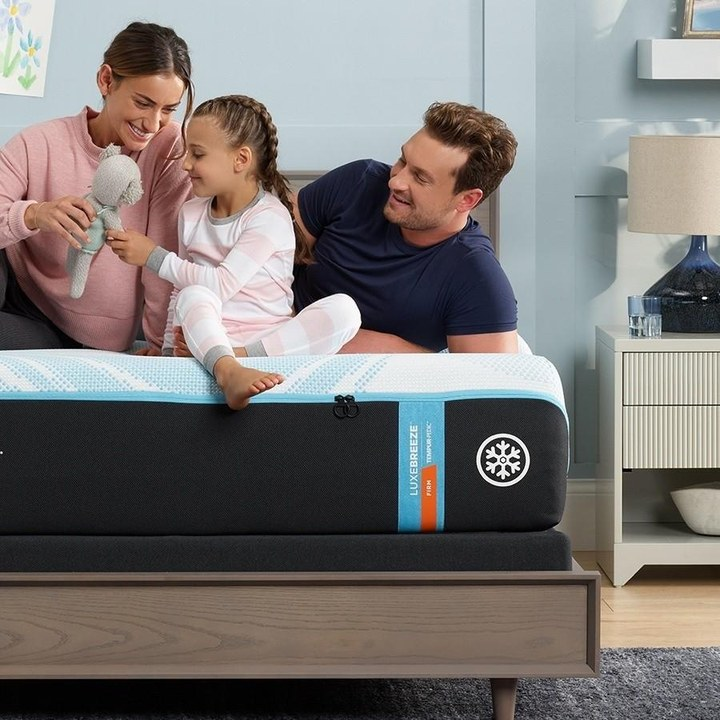
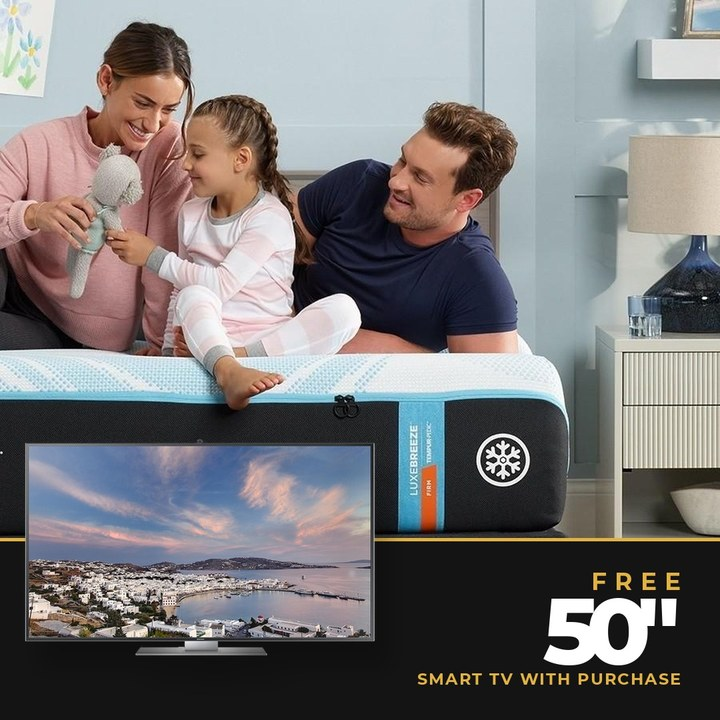
Use a real TV photo on the Breeze Collection card (#12)
* Add a television graphic to the Breeze Collection card.

The family photo and free 50-inch Smart TV offer stay the same. A plain gold-and-black screen sits with that offer so it is visible on a phone.

* Replace the illustrated television with a real product photo.

The Breeze Collection card keeps the family picture and the free 50-inch Smart TV offer. The new picture is Samsung Belgium's isolated flat-panel photograph, saved in the repo.

* Place the television inside the Breeze Collection photo.

The real product photo is inset on the family picture for the card and the enlarged view. The separate picture under the title is gone, and the original family photo is kept beside it.

* Rebuild the Breeze card as one promotional artwork.

The family photo and the real television share a dark-and-gold layout, with the free 50-inch offer set in the artwork. The separate badge and the framed inset are gone.

---------

Changed region(s): [[0.0, 0.6111, 1.0, 1.0]]

diff --git a/index.html b/index.html
@@ -22,6 +22,7 @@
   • Leave "desc" off when it would repeat "name". Do not add an unverified series.
   • Several sizes? Use "prices": [ {"label":"Queen","price":"$749"}, ... ] instead of "price".
   • No price? Leave "price" out and add "badge": "your text" instead.
+  • The Breeze Collection artwork is one piece: the family photo, a dark-and-gold offer panel, and the television. "offerInArt": true keeps that claim out of a second badge. The untouched family photo is img/18-family.jpg. The television is Samsung Belgium's product picture (CC BY 2.0, https://commons.wikimedia.org/wiki/File:Samsung_UE65F9005STXXE_front_black_20130613.jpg), a representative screen only. Do not name that brand or model on the card.
   • Sale dates: type them into "dates" (e.g. "Oct 1 – Oct 31"); leave "" to hide.
   • Leave a store "phone" as "" to hide its call link.
   Keep the commas and quotes exactly as they are.
@@ -206,6 +207,7 @@
     {
       "name": "Tempur-Pedic Breeze Collection",
       "badge": "FREE 50\" Smart TV with purchase",
+      "offerInArt": true,
       "category": "Mattresses",
       "image": "img/18.jpg",
       "large": "img/18-lg.jpg"
@@ -422,7 +424,7 @@
   a.card{text-decoration:none}
   a.card:focus-visible{outline:3px solid var(--gold);outline-offset:-5px}
   .card .ph{aspect-ratio:1/1;background:var(--sand);overflow:hidden}
-  .card img{display:block;width:100%;height:100%;object-fit:cover}
+  .card .ph img{display:block;width:100%;height:100%;object-fit:cover}
   .card .info{padding:10px 12px 14px}
   .card .nm{font-weight:700;font-size:14px;line-height:1.25;color:var(--ink)}
   .card .ds{font-size:12px;color:var(--muted);margin-top:2px;line-height:1.3}
@@ -516,7 +518,7 @@
       var availability = o.terms==='Door Buster starts on Nov 25' ? '<div class="tm">'+esc(o.terms)+'</div>' : '';
       var tap = (!o.link && (o.price||o.prices)) ? '<div class="tap">Tap to enlarge</div>' : '';
       return openTag+'<div class="ph"><img src="'+esc(o.image)+'" alt="'+esc(alt)+'" '+(i<4?'':'loading="lazy"')+' decoding="async"></div>' +
-             '<div class="info"><div class="nm">'+esc(o.name)+'</div>'+(sub?'<div class="ds">'+esc(sub)+'</div>':'')+(o.prices?'<div class="pp">'+o.prices.map(function(p){return '<div><span>'+esc(p.label)+'</span><b>'+esc(p.price)+'</b></div>'}).join('')+'</div>':o.price?'<div class="pr">'+esc(o.price)+'<small>SALE</small></div>':'<div class="bd">'+esc(o.badge||'')+'</div>')+availability+tap+'</div>'+closeTag;
+             '<div class="info"><div class="nm">'+esc(o.name)+'</div>'+(sub?'<div class="ds">'+esc(sub)+'</div>':'')+(o.prices?'<div class="pp">'+o.prices.map(function(p){return '<div><span>'+esc(p.label)+'</span><b>'+esc(p.price)+'</b></div>'}).join('')+'</div>':o.price?'<div class="pr">'+esc(o.price)+'<small>SALE</small></div>':(o.badge && !o.offerInArt?'<div class="bd">'+esc(o.badge)+'</div>':''))+availability+tap+'</div>'+closeTag;
     }).join('');
   }
   render();
